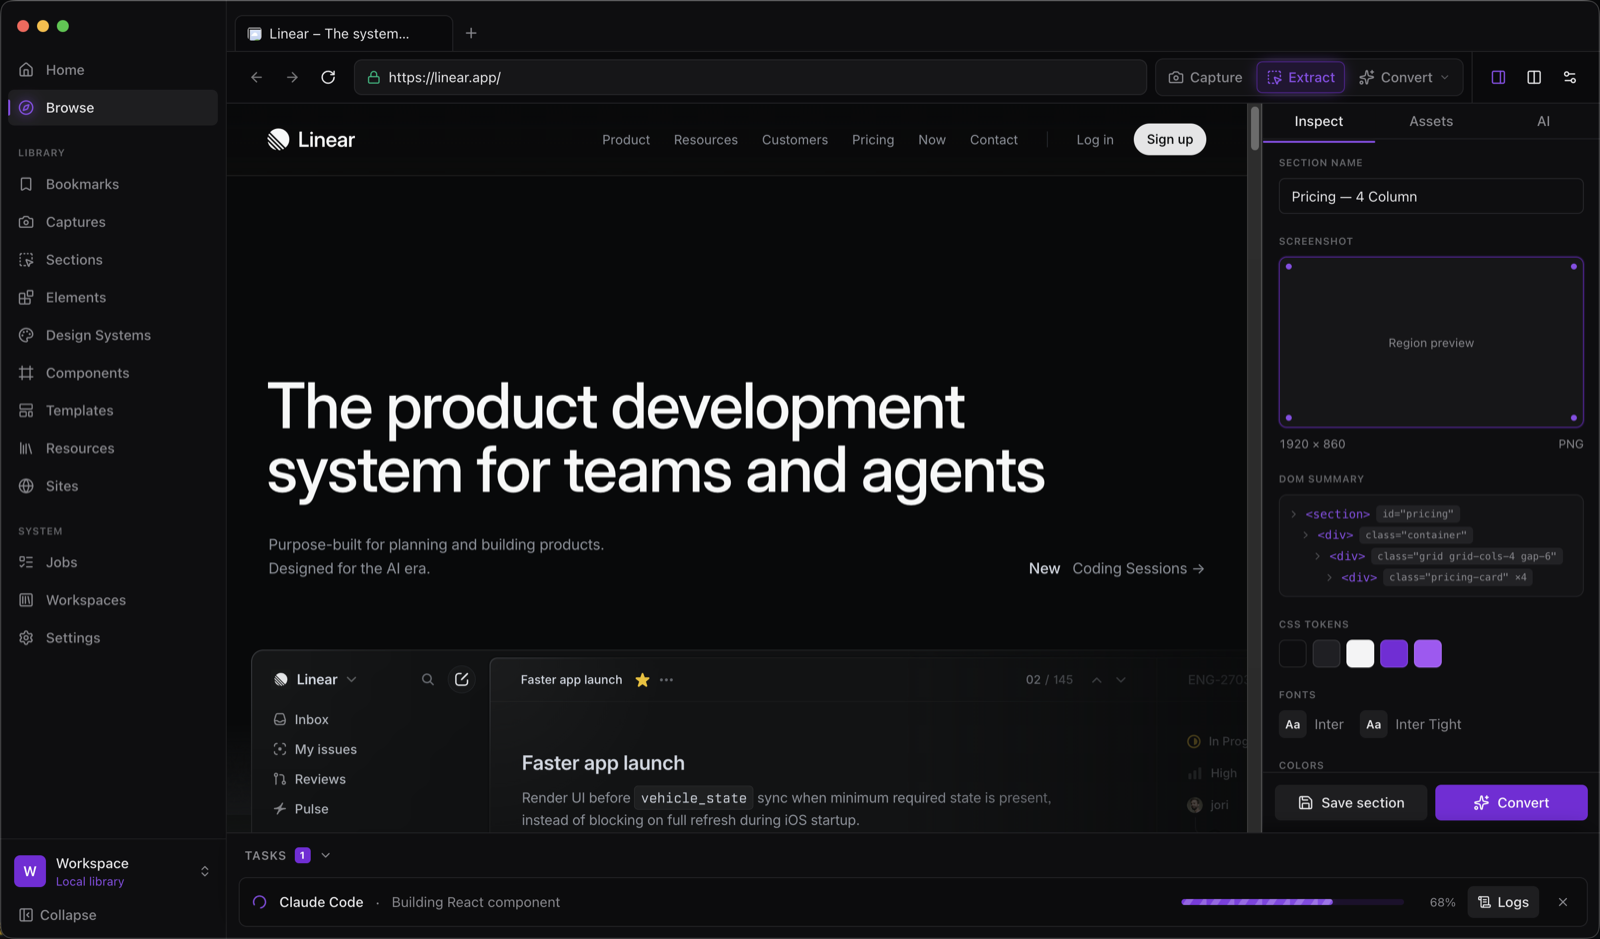
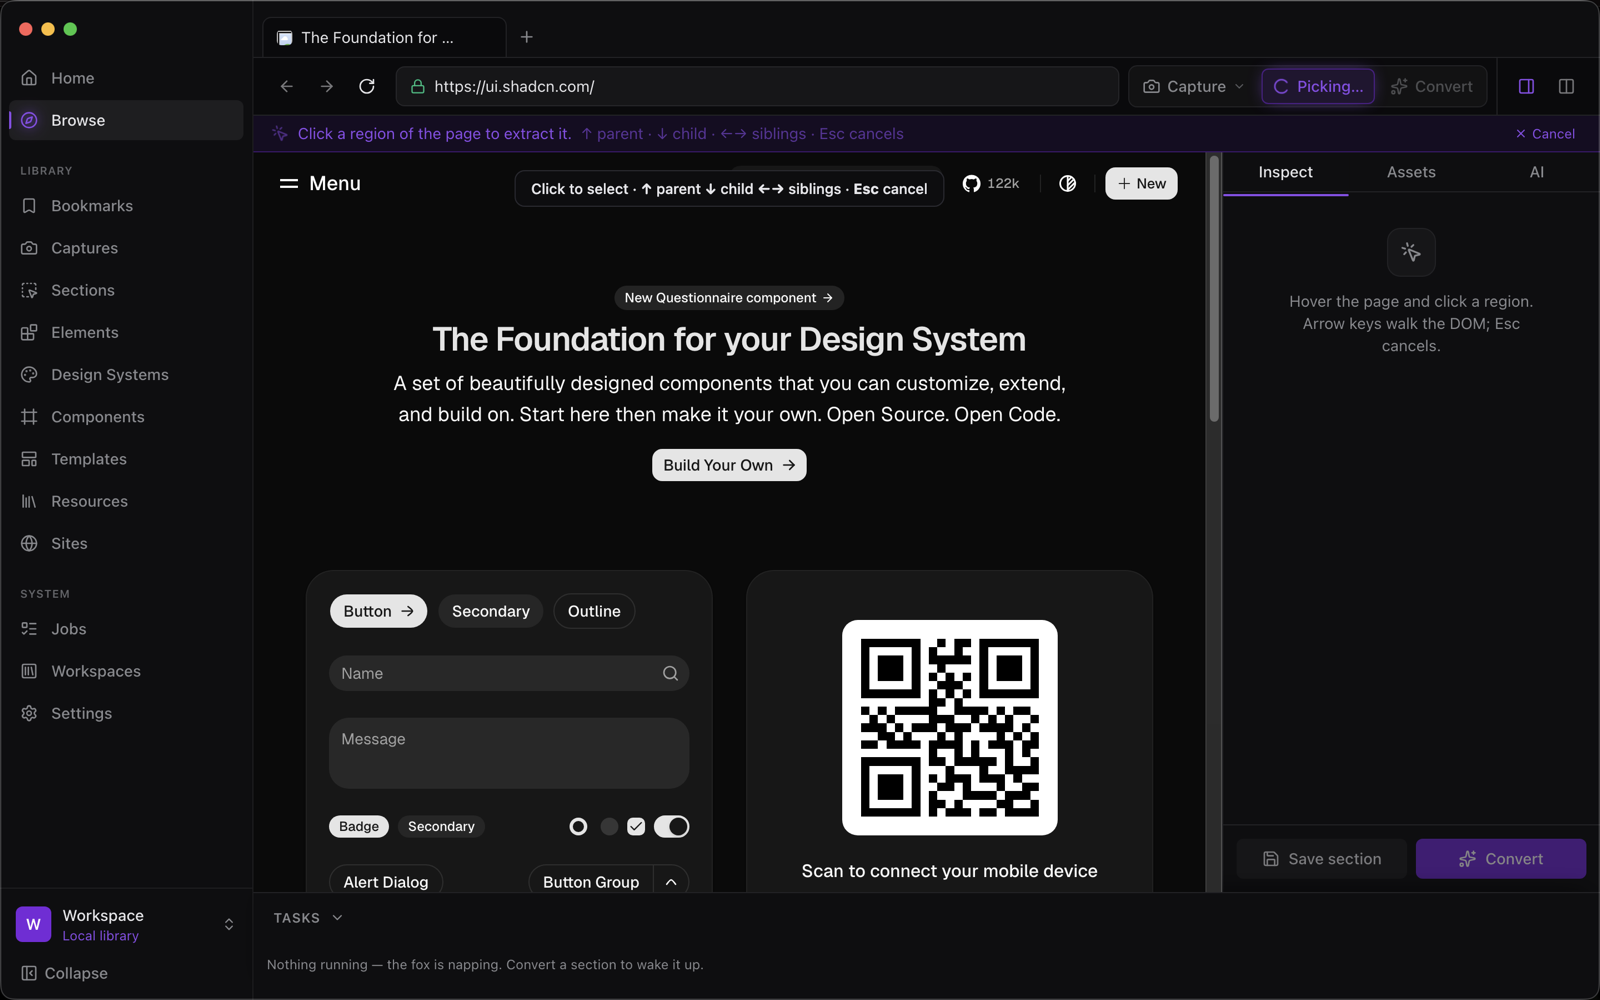
Show the real app and an honest status section
Swap in screenshots of extract mode and the Captures library taken from the
running app, and add a shipped-vs-specified section so the page does not
promise more than the build does.

diff --git a/index.html b/index.html
@@ -205,16 +205,31 @@
         <div class="shot">
           <img
             src="assets/app-browse.png"
-            alt="The Nisaba desktop app: sidebar library, browser tabs, a live page and the inspector panel showing extracted DOM, tokens, fonts and detected frameworks"
+            alt="Nisaba in extract mode: a live page with the selection overlay active and the inspector open"
             width="1600"
-            height="939"
+            height="1000"
             loading="lazy"
             decoding="async"
           />
         </div>
         <p class="shot__caption">
-          Tabs and a real page on the left. Everything Nisaba knows about your selection on the
-          right. Agent jobs streaming along the bottom.
+          Extract mode. Hover the live page, walk the DOM with the arrow keys, click to keep the
+          region — screenshot, selector, HTML, styles, tokens and all.
+        </p>
+
+        <div class="shot shot--second">
+          <img
+            src="assets/app-library.png"
+            alt="The Captures library showing saved screenshots of Vercel, Stripe and Linear"
+            width="1600"
+            height="1000"
+            loading="lazy"
+            decoding="async"
+          />
+        </div>
+        <p class="shot__caption">
+          And the payoff: every capture filed under its site, with the URL, dimensions and date it
+          was taken.
         </p>
       </section>
 
@@ -457,6 +472,44 @@
                 unless you turn them on.
               </p>
             </details>
+          </div>
+        </div>
+      </section>
+
+      <!-- ── Status ───────────────────────────────────────────────────── -->
+      <section class="status">
+        <header class="section-head">
+          <p class="kicker">Straight answer</p>
+          <h2>What works today.</h2>
+          <p class="section-sub">
+            Nisaba is being built in the open, in phases. Here is the honest line between shipped
+            and specified — the app says the same thing on screens that are not done yet.
+          </p>
+        </header>
+
+        <div class="status__grid">
+          <div class="status__col status__col--done">
+            <h3>Working now</h3>
+            <ul>
+              <li>Multi-tab browsing in fully isolated views</li>
+              <li>Capture the viewport, the whole scrollable page, or a dragged region</li>
+              <li>Hover-to-select extraction with arrow-key DOM navigation</li>
+              <li>Selector, sanitized HTML, computed styles and CSS custom properties</li>
+              <li>Fonts, palette, assets and accessibility metadata</li>
+              <li>Framework detection with confidence and evidence</li>
+              <li>Captures, Sections, Sites and Bookmarks, searchable and on your disk</li>
+              <li>Claude Code and Codex CLI detection, with a resolved-prompt preview</li>
+            </ul>
+          </div>
+          <div class="status__col">
+            <h3>Still to come</h3>
+            <ul>
+              <li>Annotation editor for captures</li>
+              <li>Design system extraction and <code>design.md</code></li>
+              <li>Element Style Matrix, Components and Templates</li>
+              <li>Running agent jobs and verifying their output</li>
+              <li>Workspaces and portable export</li>
+            </ul>
           </div>
         </div>
       </section>

diff --git a/styles.css b/styles.css
@@ -542,6 +542,76 @@ kbd {
   font-size: 0.9375rem;
 }
 
+.shot--second {
+  margin-top: clamp(2.5rem, 5vw, 3.5rem);
+}
+
+/* ── Status ───────────────────────────────────────────────────────────── */
+
+.status {
+  max-width: var(--max);
+  margin-inline: auto;
+  padding: 0 var(--gutter) var(--stack);
+}
+
+.status__grid {
+  display: grid;
+  gap: clamp(1.5rem, 4vw, 2.5rem);
+  grid-template-columns: repeat(auto-fit, minmax(min(100%, 18rem), 1fr));
+}
+
+.status__col {
+  border: 1px solid var(--line);
+  border-radius: 14px;
+  padding: 1.5rem;
+  background: var(--ink-2);
+}
+
+.status__col--done {
+  border-color: color-mix(in srgb, var(--purple) 50%, transparent);
+  box-shadow: 0 20px 50px -40px var(--purple);
+}
+
+.status__col h3 {
+  font-size: 1.1rem;
+  margin-bottom: 1rem;
+}
+
+.status__col ul {
+  list-style: none;
+  margin: 0;
+  padding: 0;
+  display: grid;
+  gap: 0.6rem;
+}
+
+.status__col li {
+  position: relative;
+  padding-left: 1.6rem;
+  color: var(--fg-dim);
+  font-size: 0.9rem;
+  line-height: 1.5;
+}
+
+.status__col--done li::before {
+  content: '✓';
+  position: absolute;
+  left: 0;
+  color: var(--purple-bright);
+  font-weight: 700;
+}
+
+.status__col:not(.status__col--done) li::before {
+  content: '';
+  position: absolute;
+  left: 3px;
+  top: 0.6em;
+  width: 9px;
+  height: 2px;
+  border-radius: 2px;
+  background: var(--fg-faint);
+}
+
 /* ── Library cards ────────────────────────────────────────────────────── */
 
 .library {
